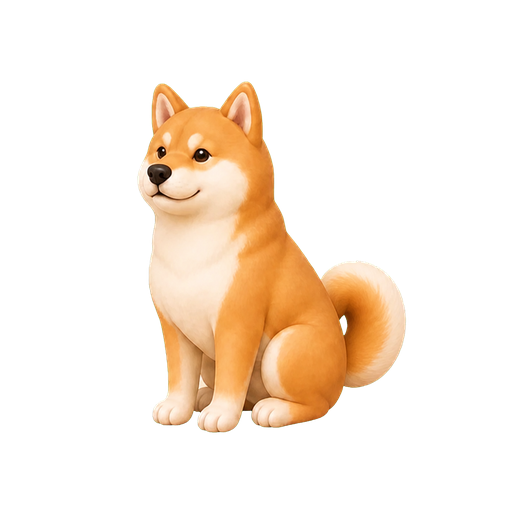
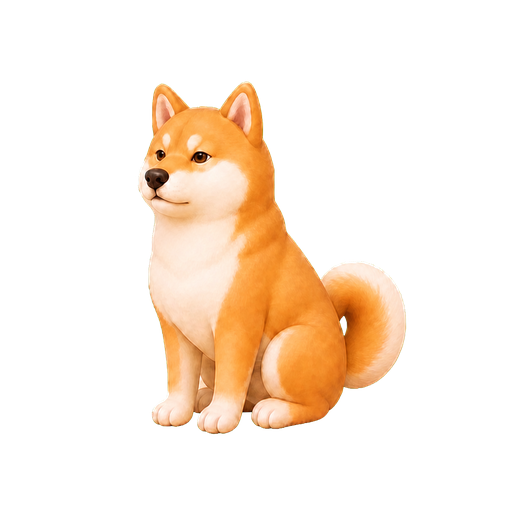
add natural shiba yawn animation

diff --git a/src/components/category-explorer.module.css b/src/components/category-explorer.module.css
@@ -10,7 +10,9 @@
 .quickIcon [data-motion-layer="social-base"] { background-image: url('/illustrations/ui/lifestyle-motion/social-base.png'); background-position: center; background-size: 100% 100%; }
 .quickIcon [data-motion-layer="social-blink"] { background-image: url('/illustrations/ui/lifestyle-motion/social-blink.png'); background-position: center; background-size: 100% 100%; opacity: 0; }
 .quickIcon [data-motion-layer="social-hand"] { background-image: url('/illustrations/ui/lifestyle-motion/social-hand.png'); background-position: center; background-size: 100% 100%; transform-origin: 86% 24%; }
-.quickIcon [data-motion-layer="independent-idle"] { background-image: url('/illustrations/ui/lifestyle-motion/independent-base.png'); background-position: center; background-size: 100% 100%; transform-origin: 50% 82%; }
+.quickIcon [data-motion-layer="independent-base"] { background-image: url('/illustrations/ui/lifestyle-motion/independent-base.png'); background-position: center; background-size: 100% 100%; }
+.quickIcon [data-motion-layer="independent-yawn-mid"] { background-image: url('/illustrations/ui/lifestyle-motion/independent-yawn-mid.png'); background-position: center; background-size: 100% 100%; opacity: 0; }
+.quickIcon [data-motion-layer="independent-yawn-full"] { background-image: url('/illustrations/ui/lifestyle-motion/independent-yawn-full.png'); background-position: center; background-size: 100% 100%; opacity: 0; }
 .quickIcon [data-motion-layer="grooming-base"] { background-image: url('/illustrations/ui/lifestyle-motion/grooming-base.webp'); background-position: center; background-size: 100% 100%; }
 .quickIcon [data-motion-layer="grooming-sparkles"] { background-image: url('/illustrations/ui/lifestyle-motion/grooming-accessory.webp'); background-position: center; background-size: 100% 100%; transform-origin: 73% 45%; }
 .quickIcon [data-motion-layer="unfamiliar-base"] { background-image: url('/illustrations/ui/lifestyle-motion/unfamiliar-base.png'); background-position: center; background-size: 100% 100%; }
@@ -20,7 +22,8 @@
 .quickStartCard[data-motion-ready="true"] .quickIcon [data-motion-layer="active-run"] { animation: active-run-once .88s steps(8, end) 1 both; }
 .quickStartCard[data-motion-ready="true"] .quickIcon [data-motion-layer="social-blink"] { animation: social-blink-once 3.8s linear 1 both; }
 .quickStartCard[data-motion-ready="true"] .quickIcon [data-motion-layer="social-hand"] { animation: social-hand-once 3.8s cubic-bezier(.42, 0, .25, 1) 1 both; }
-.quickStartCard[data-motion-ready="true"] .quickIcon [data-motion-layer="independent-idle"] { animation: independent-breathe-once 2.4s ease-in-out 1 both; }
+.quickStartCard[data-motion-ready="true"] .quickIcon [data-motion-layer="independent-yawn-mid"] { animation: independent-yawn-mid-once 4.8s ease-in-out 1 both; }
+.quickStartCard[data-motion-ready="true"] .quickIcon [data-motion-layer="independent-yawn-full"] { animation: independent-yawn-full-once 4.8s ease-in-out 1 both; }
 .quickStartCard[data-motion-ready="true"] .quickIcon [data-motion-layer="grooming-sparkles"] { animation: grooming-sparkles-once 1.8s ease-in-out 1 both; }
 .quickStartCard[data-motion-ready="true"] .quickIcon [data-motion-layer="unfamiliar-question"] { animation: unfamiliar-question-once 2s ease-in-out 1 both; }
 .quickStartCard:hover { transform: translateY(-2px); border-color: var(--moss); box-shadow: 0 10px 24px rgb(42 52 46 / 8%); }
@@ -49,7 +52,8 @@
   .quickStartCard:hover .quickIcon [data-motion-layer="active-run"] { animation: active-run-loop .88s steps(8, end) infinite; }
   .quickStartCard:hover .quickIcon [data-motion-layer="social-blink"] { animation: social-blink-loop 3.8s linear infinite; }
   .quickStartCard:hover .quickIcon [data-motion-layer="social-hand"] { animation: social-hand-loop 3.8s cubic-bezier(.42, 0, .25, 1) infinite; }
-  .quickStartCard:hover .quickIcon [data-motion-layer="independent-idle"] { animation: independent-breathe-loop 2.4s ease-in-out infinite; }
+  .quickStartCard:hover .quickIcon [data-motion-layer="independent-yawn-mid"] { animation: independent-yawn-mid-loop 4.8s ease-in-out infinite; }
+  .quickStartCard:hover .quickIcon [data-motion-layer="independent-yawn-full"] { animation: independent-yawn-full-loop 4.8s ease-in-out infinite; }
   .quickStartCard:hover .quickIcon [data-motion-layer="grooming-sparkles"] { animation: grooming-sparkles-loop 1.8s ease-in-out infinite; }
   .quickStartCard:hover .quickIcon [data-motion-layer="unfamiliar-question"] { animation: unfamiliar-question-loop 2s ease-in-out infinite; }
 }
@@ -58,7 +62,8 @@
 .quickStartCard:focus-visible .quickIcon [data-motion-layer="active-run"] { animation: active-run-loop .88s steps(8, end) infinite; }
 .quickStartCard:focus-visible .quickIcon [data-motion-layer="social-blink"] { animation: social-blink-loop 3.8s linear infinite; }
 .quickStartCard:focus-visible .quickIcon [data-motion-layer="social-hand"] { animation: social-hand-loop 3.8s cubic-bezier(.42, 0, .25, 1) infinite; }
-.quickStartCard:focus-visible .quickIcon [data-motion-layer="independent-idle"] { animation: independent-breathe-loop 2.4s ease-in-out infinite; }
+.quickStartCard:focus-visible .quickIcon [data-motion-layer="independent-yawn-mid"] { animation: independent-yawn-mid-loop 4.8s ease-in-out infinite; }
+.quickStartCard:focus-visible .quickIcon [data-motion-layer="independent-yawn-full"] { animation: independent-yawn-full-loop 4.8s ease-in-out infinite; }
 .quickStartCard:focus-visible .quickIcon [data-motion-layer="grooming-sparkles"] { animation: grooming-sparkles-loop 1.8s ease-in-out infinite; }
 .quickStartCard:focus-visible .quickIcon [data-motion-layer="unfamiliar-question"] { animation: unfamiliar-question-loop 2s ease-in-out infinite; }
 @keyframes calm-breathe-once {
@@ -107,13 +112,21 @@
   0%, 43%, 52%, 100% { opacity: 0; }
   46%, 49% { opacity: 1; }
 }
-@keyframes independent-breathe-once {
-  0%, 100% { transform: scaleY(1); }
-  50% { transform: scaleY(1.006); }
+@keyframes independent-yawn-mid-once {
+  0%, 18%, 82%, 100% { opacity: 0; }
+  28%, 72% { opacity: 1; }
 }
-@keyframes independent-breathe-loop {
-  0%, 100% { transform: scaleY(1); }
-  50% { transform: scaleY(1.006); }
+@keyframes independent-yawn-mid-loop {
+  0%, 18%, 82%, 100% { opacity: 0; }
+  28%, 72% { opacity: 1; }
+}
+@keyframes independent-yawn-full-once {
+  0%, 40%, 68%, 100% { opacity: 0; }
+  48%, 60% { opacity: 1; }
+}
+@keyframes independent-yawn-full-loop {
+  0%, 40%, 68%, 100% { opacity: 0; }
+  48%, 60% { opacity: 1; }
 }
 @keyframes grooming-sparkles-once {
   0%, 100% { opacity: 1; transform: translateY(0) scale(1); }

diff --git a/src/components/category-dog-icon.tsx b/src/components/category-dog-icon.tsx
@@ -17,7 +17,13 @@ export function CategoryDogIcon({ name, className }: { name: CategoryDogIconName
           <span data-motion-layer="social-hand" />
         </>
       ) : null}
-      {name === "independent" ? <span data-motion-layer="independent-idle" /> : null}
+      {name === "independent" ? (
+        <>
+          <span data-motion-layer="independent-base" />
+          <span data-motion-layer="independent-yawn-mid" />
+          <span data-motion-layer="independent-yawn-full" />
+        </>
+      ) : null}
       {name === "grooming" ? (
         <>
           <span data-motion-layer="grooming-base" />
